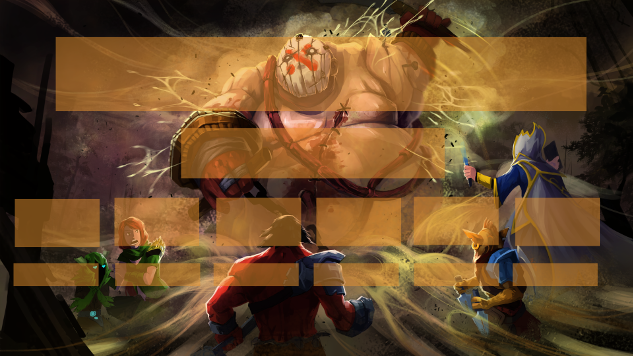
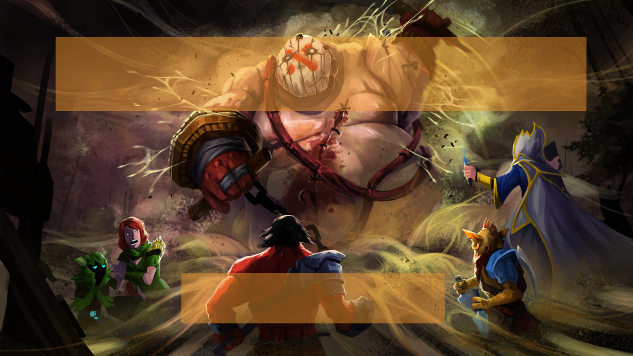
added dungeon lookups
added .setsteamid
added .myhighscores
updated dungeon template
added additional error handeling for dungeon lookups

Changed region(s): [[0.0, 0.5562, 0.9605, 0.7107], [0.0, 0.7416, 0.9605, 0.927], [0.2701, 0.3399, 0.7204, 0.5253]]

diff --git a/src/commands/.ranks.js b/src/commands/.ranks.js
@@ -2,6 +2,9 @@ const Jimp = require("jimp");
 const rp = require('request-promise');
 const c = require('../util/constants.js')
 const {
+    steamLookup
+} = require('../util/utilities.js');
+const {
     formatDungeonName,
 } = require('../util/utilities.js');
 module.exports = {
@@ -37,7 +40,7 @@ module.exports = {
         const dungeonName = args[0];
 
         //Determins parameters for dungeon quantity
-        if(!c.DUNGEON_NAMES.includes(dungeonName)) return message.reply('Invalid dungeon name.');
+        if (!c.DUNGEON_NAMES.includes(dungeonName)) return message.reply('Invalid dungeon name.');
         switch (args[1]) {
             case '1':
                 dungQty = '&num_heroes=1';
@@ -85,20 +88,6 @@ module.exports = {
             }
         }
 
-        /**API request options for Dungeon Top 10
-         * 
-         * @param {array} steamIds - Steam Id3s of players
-         */
-        steamLookup = steamIds => {
-            return {
-                uri: `http://kobe42.pythonanywhere.com/steam/profile?steamId=${steamIds}`,
-                headers: {
-                    'User-Agent': 'Request-Promise'
-                },
-                json: true,
-            }
-        }
-
         rp(determineReqOptions(dungeonName))
             .then(function (apiResponse) {
                 const data = apiResponse
@@ -109,9 +98,8 @@ module.exports = {
                 let jimpFonts = [];
                 steamIds = [];
                 playerNames = [];
-                const dungTime = Math.round(highScore.TimeTaken * 1000) / 1000
+                const dungTime = Math.round(highScore.TimeTaken * 1000) / 1000;
                 highScore.Players.forEach(player => steamIds.push(player.account_id));
-
                 rp(steamLookup(JSON.stringify(steamIds)))
                     .then(function (steamData) {
                         steamData.forEach(steamPlayer => (playerNames.push(steamPlayer.personaname)));
@@ -129,7 +117,6 @@ module.exports = {
                                             33, {
                                                 text: formatDungeonName(dungeonName),
                                                 alignmentX: Jimp.HORIZONTAL_ALIGN_CENTER,
-                                                alignmentY: Jimp.HORIZONTAL_ALIGN_CENTE,
                                             },
                                             640,
                                             400
@@ -137,10 +124,9 @@ module.exports = {
                                         loadedImage.print( //prints dungeon name onto template image
                                             fonts[1],
                                             1,
-                                            130, {
+                                            273, { //old y = 130
                                                 text: `${dungTime.toString()} secs`,
                                                 alignmentX: Jimp.HORIZONTAL_ALIGN_CENTER,
-                                                alignmentY: Jimp.HORIZONTAL_ALIGN_CENTE,
                                             },
                                             640,
                                             400
@@ -156,15 +142,23 @@ module.exports = {
                                             Promise.all(jimps).then((data) => {
                                                 return Promise.all(jimps);
                                             }).then((data) => {
-                                                xPosition = 14;
+                                                let xPosition = 0;
                                                 let iu = 0;
                                                 baseImage = data[0];
                                                 heroImages = data.splice(1);
+                                                const startXpos = (316.5 - ((96.25 * playerNames.length) / 2))
                                                 heroImages.forEach((jimpPromises) => {
                                                     jimpPromises.resize(87, 50);
-                                                    baseImage.composite(jimpPromises, xPosition, 197);
-                                                    baseImage.print(fonts[2], xPosition, 265, playerNames[iu].toString());
+                                                    baseImage.composite(jimpPromises, (startXpos + xPosition), 160); // old y - 227
+                                                    baseImage.print(
+                                                        fonts[2],
+                                                        startXpos + xPosition + ((87 - (playerNames[iu].length * 8.7)) / 2),
+                                                        218, //old y = 285 
+                                                        {
+                                                            text: playerNames[iu].toString(),
+                                                        });
                                                     iu++;
+                                                    tester = 0;
                                                     xPosition += 100;
                                                 });
                                                 baseImage.write('C:/Users/Alec PC/Documents/GitHub/Reincarnation/Reincarnation-Bot/src/data/images/templates/templatenew.png', () => {
@@ -178,7 +172,6 @@ module.exports = {
                                     });
                             })
                     });
-
             })
             .catch((err) => {
                 console.error(err);

diff --git a/src/util/constants.js b/src/util/constants.js
@@ -19,6 +19,7 @@ module.exports = {
         'warningreasons': [],
         'mutecount': 0,
         'mutehistory': ['\u200B'],
+        'steamid': '',
     },
     HERO_LIST: {
         'npc_dota_hero_kunkka': 'Novice',
@@ -65,6 +66,101 @@ module.exports = {
         'npc_dota_hero_zuus': 'Wizard',
         'npc_dota_hero_bloodseeker': 'Shaman',
         'npc_dota_hero_sharpshooter': 'Sharpshooter',
+        /*
+        'npc_dota_hero_bounty_hunter': 'Rogue',
+        'npc_dota_hero_Rogue': 'Rogue',
+        'npc_dota_hero_windrunner': 'Ranger',
+        'npc_dota_hero_ranger': 'Ranger',
+        'npc_dota_hero_warlock': 'Mage',
+        'npc_dota_hero_mage': 'Mage',
+        'npc_dota_hero_devout': 'Devout',
+        'npc_dota_hero_invoker': 'Devout',
+        'npc_dota_hero_axe': 'Brute',
+        'npc_dota_hero_brute': 'Brute',
+        'npc_dota_hero_novice_protagonist': 'Hero',
+        'npc_dota_hero_kunkka': 'Hero',
+        'npc_dota_hero_avenger': 'Avenger',
+        'npc_dota_hero_wisp': 'Unbidden',
+        'npc_dota_hero_sven': 'Zerker',
+        'npc_dota_hero_zerker': 'Zerker',
+        'npc_dota_hero_disruptor': 'Wizard',
+        'npc_dota_hero_zuus': 'Wizard',
+        'npc_dota_hero_wizard': 'Wizard',
+        'npc_dota_hero_vengefulspirit': 'Witch',
+        'npc_dota_hero_witch': 'Witch',
+        'npc_dota_hero_rubick': 'Trickster',
+        'npc_dota_hero_trickster': 'Trickster',
+        'npc_dota_hero_arc_warden': 'Technologist',
+        'npc_dota_hero_technologist': 'Technologist',
+        'npc_dota_hero_templar_assassin': 'Slayer',
+        'npc_dota_hero_slayer': 'Slayer',
+        'npc_dota_hero_meepo': 'Geomancer',
+        'npc_dota_hero_geomancer': 'Geomancer',
+        'npc_dota_hero_bishop': 'Bishop',
+        'npc_dota_hero_chen': 'Bishop',
+        'npc_dota_hero_beast_handler': 'Beast Handler',
+        'npc_dota_hero_huskar': 'Beast Handler',
+        'npc_dota_hero_legion_commander': 'Avenger',
+        'npc_dota_hero_riki': 'Wetboy',
+        'npc_dota_hero_wetboy': 'Wetboy',
+        'npc_dota_hero_swordsman': 'Swordsman',
+        'npc_dota_hero_omniknight': 'Priest',
+        'npc_dota_hero_priest': 'Priest',
+        'npc_dota_hero_troll_warlord': 'Monk',
+        'npc_dota_hero_lone_druid': 'Monk',
+        'npc_dota_hero_monk': 'Monk',
+        'npc_dota_hero_drow_ranger': 'Marksman',
+        'npc_dota_hero_marksman': 'Marksman',
+        'npc_dota_hero_phantom_lancer': 'Lancer',
+        'npc_dota_hero_lancer': 'Lancer',
+        'npc_dota_hero_sniper': 'Hunter',
+        'npc_dota_hero_hunter': 'Hunter',
+        'npc_dota_hero_furion': 'Exiled',
+        'npc_dota_hero_exile': 'Exile',
+        'npc_dota_hero_silencer': 'Runecaster',
+        'npc_dota_hero_runecaster': 'Runecaster',
+        'npc_dota_hero_mirana': 'Priestess',
+        'npc_dota_hero_priestess': 'Priestess',
+        'npc_dota_hero_keeper_of_the_light': 'Paragon',
+        'npc_dota_hero_paragon': 'Paragon',
+        'npc_dota_hero_paladin': 'Paladin',
+        'npc_dota_hero_earth_spirit': 'Martial Artist',
+        'npc_dota_hero_martial_artist': 'Martial Artist',
+        'npc_dota_hero_skeleton_king': 'Knight',
+        'npc_dota_hero_knight': 'Knight',
+        'npc_dota_hero_rattletrap': 'Gunner',
+        'npc_dota_hero_gunner': 'Gunner',
+        'npc_dota_hero_phantom_assassin': 'Fencer',
+        'npc_dota_hero_fencer': 'Fencer',
+        'npc_dota_hero_treant': 'Druid',
+        'npc_dota_hero_brewmaster': 'Druid',
+        'npc_dota_hero_druid': 'Druid',
+        'npc_dota_hero_chaos_knight': 'Daeagon',
+        'npc_dota_hero_daeagon': 'Daeagon',
+        'npc_dota_hero_oracle': 'Chronomancer',
+        'npc_dota_hero_chronomancer': 'Chronomancer',
+        'npc_dota_hero_blood_mage': 'Blood Mage',
+        'npc_dota_hero_antimage': 'Blood Mage',
+        'npc_dota_hero_ember_spirit': 'Bladerider',
+        'npc_dota_hero_bladerider': 'Bladerider',
+        'npc_dota_hero_beastmaster': 'Barbarian',
+        'npc_dota_hero_barbarian': 'Barbarian',
+        'npc_dota_hero_dragon_knight': 'Warrior',
+        'npc_dota_hero_warrior': 'Warrior',
+        'npc_dota_hero_spellblade': 'Spellblade',
+        'npc_dota_hero_sharpshooter': 'Sharpshooter',
+        'npc_dota_hero_crystal_maiden': 'Arcanist',
+        'npc_dota_hero_arcanist': 'Arcanist',
+        'npc_dota_hero_cultist': 'Cultist',
+        'npc_dota_hero_dazzle': 'Cultist',
+        'npc_dota_hero_lina': 'Elementalist',
+        'npc_dota_hero_elementalist': 'Elementalist',
+        'npc_dota_hero_bloodseeker': 'Shaman',
+        'npc_dota_hero_shaman': 'Shaman',
+        'npc_dota_hero_spectre': 'Shadow Assassin',
+        'npc_dota_hero_shadow_assassin': 'Shadow Assassin',
+        'npc_dota_hero_juggernaut': 'Samurai',
+        */
     },
     DUNGEON_NAMES: [
         'butchers_sepulcher',

diff --git a/src/util/utilities.js b/src/util/utilities.js
@@ -1,3 +1,4 @@
+/* eslint-disable brace-style */
 const fs = require('fs');
 const {
     RichEmbed,
@@ -33,6 +34,20 @@ exports.constructEmbed = (title, description, image, fields, thumbnail) => {
 
 };
 
+/** API request options for Dungeon Top 10
+ *
+ * @param {array} steamIds - Steam Id3s of players
+ */
+exports.steamLookup = steamIds => {
+    return {
+        uri: `http://kobe42.pythonanywhere.com/steam/profile?steamId=${steamIds}`,
+        headers: {
+            'User-Agent': 'Request-Promise',
+        },
+        json: true,
+    };
+};
+
 /**
  * Returns a random number between min and max.
  *
@@ -53,10 +68,10 @@ exports.maybeCreateMemberData = (userID) => {
 
 exports.formatDungeonName = (string) => {
     let dungeonName = string.replace('_', ' ');
-   return dungeonName = dungeonName.toLowerCase()
-    .split(' ')
-    .map((s) => s.charAt(0).toUpperCase() + s.substring(1))
-    .join(' ');
+    return dungeonName = dungeonName.toLowerCase()
+        .split(' ')
+        .map((s) => s.charAt(0).toUpperCase() + s.substring(1))
+        .join(' ');
 
 };
 /**
@@ -81,23 +96,22 @@ exports.decideUser = (message, specifiedMember) => {
 };
 
 exports.persistSuggestions = (message) => {
-    if(message.channel.id !== SUGGESTIONS_CHANNEL_ID || message.author.bot) return;
+    if (message.channel.id !== SUGGESTIONS_CHANNEL_ID || message.author.bot) return;
     message.react('👍')
-    .then(() => message.react('👎'))
-    .then(() => message.react('❌'))
-    .catch(() => console.error('One of the emojis failed to react.'));
-    if(message.client.info.last_suggestion_message !== '') {
+        .then(() => message.react('👎'))
+        .then(() => message.react('❌'))
+        .catch(() => console.error('One of the emojis failed to react.'));
+    if (message.client.info.last_suggestion_message !== '') {
         try {
             message.client.info.last_suggestion_message.delete();
-        }
-        catch (error) {
+        } catch (error) {
             console.log(error);
         }
     }
     const embed = this.constructEmbed('Read pinned messages for instructions on how to post in the suggestions channel', '');
     message.channel.send(embed)
-    .then((msg => message.client.info.last_suggestion_message = msg))
-    .catch(error => {
-        console.log(error);
-    });
+        .then((msg => message.client.info.last_suggestion_message = msg))
+        .catch(error => {
+            console.log(error);
+        });
 };

diff --git a/src/commands/myhighscores.js b/src/commands/myhighscores.js
@@ -1,0 +1,50 @@
+/* eslint-disable space-before-function-paren */
+const rp = require('request-promise');
+const {
+    DUNGEON_NAMES,
+} = require('../util/constants.js');
+const {
+    constructEmbed,
+    formatDungeonName,
+} = require('../util/utilities.js');
+module.exports = {
+    name: 'myhighscores',
+    description: 'Displays  your personal best records for all dungeons.',
+    cooldown: 5,
+    execute(message) {
+        message.delete();
+        let dungNumber = 0;
+        if (message.client.memberinfo[message.member.id].steamid === '') return message.reply('You need to set your steam id with .setsteamid');
+        /** API request options for Dungeon Top 10
+         *
+         * @param {string} dungeonName - Name of the dungeon to lookup
+         */
+        const determineReqOptions = (dungeonName, steamId) => {
+            return {
+                uri: `http://reincarnationrpg.com:3000/api/dungeons/top10?dungeon_name=${dungeonName}&players=[${steamId}]&json=true`,
+                headers: {
+                    'User-Agent': 'Request-Promise',
+                },
+                json: true,
+            };
+        };
+        const embed = constructEmbed(`${message.author.username}'s Dungeon Records`, '', null, null, message.member.user.displayAvatarURL);
+        DUNGEON_NAMES.forEach((dungeon) => {
+            rp(determineReqOptions(dungeon, message.client.memberinfo[message.member.id].steamid))
+                .then(function (apiResponse) {
+                    const highScore = apiResponse[0];
+                    if (highScore != undefined) {
+                        const dungTime = Math.round(highScore.TimeTaken * 1000) / 1000;
+                        embed.addField(formatDungeonName(dungeon), `${dungTime} secs.`, true);
+                    }
+                    if (dungNumber == 19) message.channel.send(embed);
+                        dungNumber++;
+
+                })
+                .catch((err) => {
+                    console.error(err);
+                });
+        });
+
+    },
+};

diff --git a/src/struct/MembersInfo.js b/src/struct/MembersInfo.js
@@ -7,6 +7,12 @@ module.exports = class MemberInfo {
     constructor(data) {
         Object.keys(data).forEach(key => this[key] = data[key]);
     }
+    setSteamId(message, args) {
+        this.steamid = args[0];
+        const embed = constructEmbed(`${this.name}, your steam ID has been set: ${args[0]}`, '', null, null);
+        exportJson(message.client.memberinfo, 'memberdata');
+        return message.channel.send(embed);
+    }
     giveWarning(message, reason) {
         this.warnings++;
         this.warningreasons = this.warningreasons.concat(`${message.member.displayName} issued a WARNING:\n*${reason}*  (${new Date().toLocaleString()})`);
@@ -36,6 +42,7 @@ module.exports = class MemberInfo {
             inline: false,
         });
         const embed = constructEmbed(`${this.name}'s Warnings (${this.warnings}):`, reasons, null, embedFields, member.user.displayAvatarURL);
+        embed.setFooter(`Steam ID: ${this.steamid}`);
         exportJson(message.client.memberinfo, 'memberdata');
         return message.channel.send(embed);
 

diff --git a/src/commands/setsteamid.js b/src/commands/setsteamid.js
@@ -1,0 +1,11 @@
+module.exports = {
+	name: 'setsteamid',
+	description: 'sets your steam ID',
+	usage: '[steamID]',
+	args: true,
+	cooldown: 5,
+	execute(message, args) {
+        message.delete();
+        message.client.memberinfo[message.member.id].setSteamId(message, args);
+	},
+};
